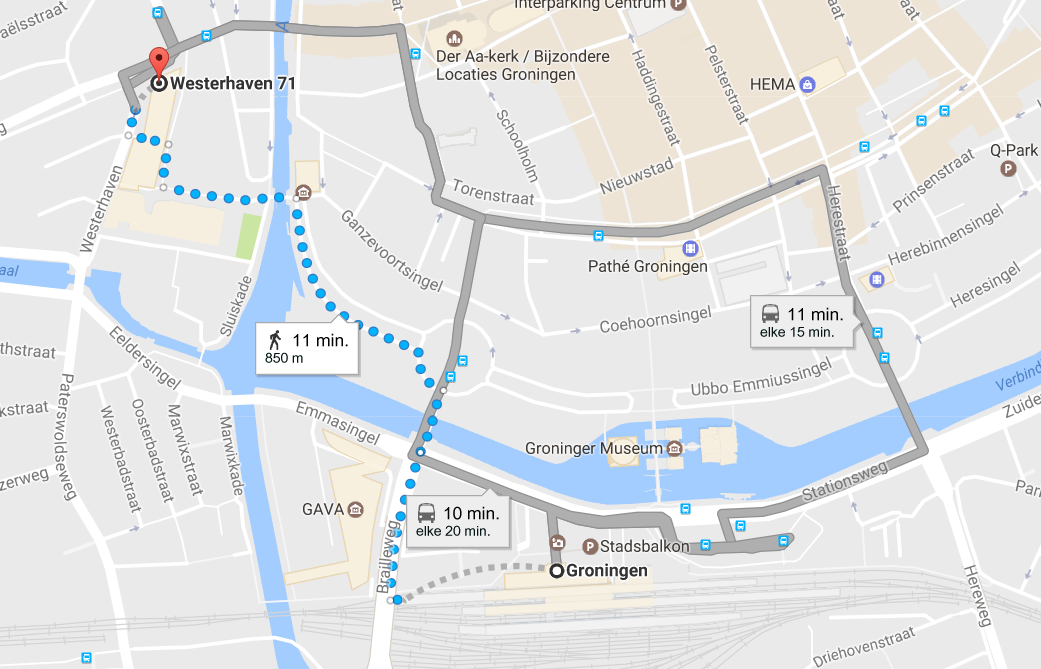
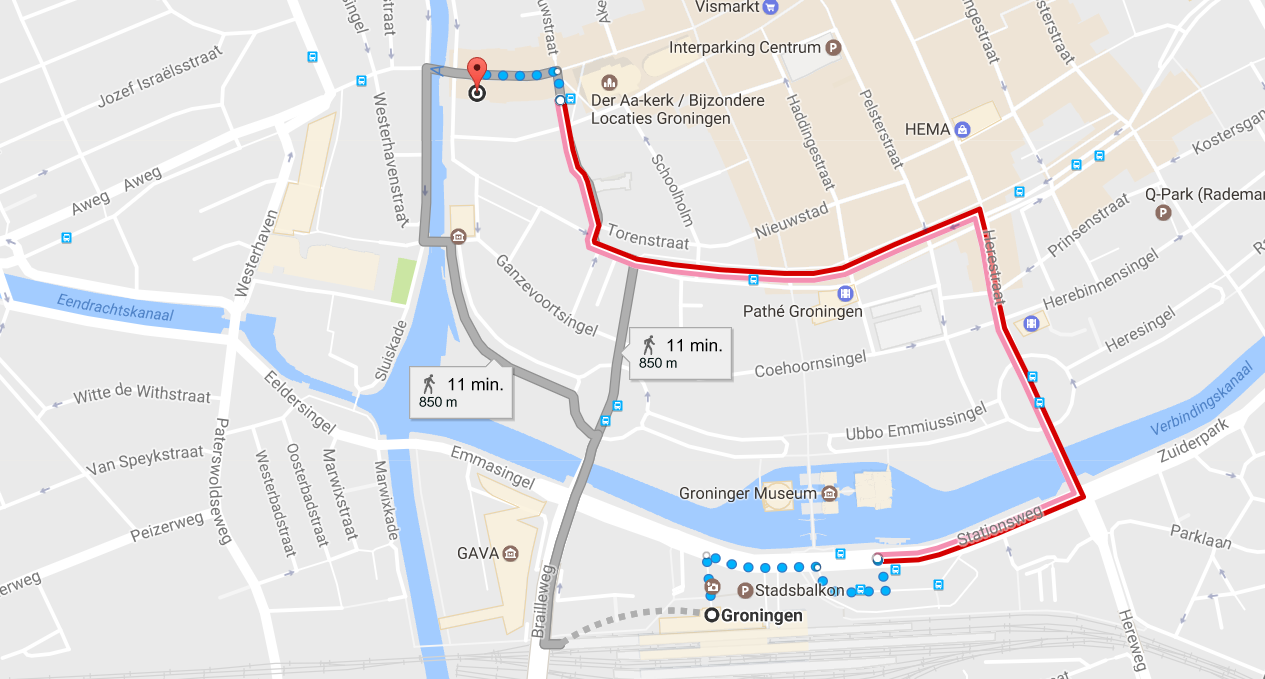
Routes

diff --git a/pages/routes.html b/pages/routes.html
@@ -19,18 +19,35 @@
 </ul>
 <!--TEXT ON PAGE-->
 
-<h1>My First Google Map</h1>
+<img class="route1" src="../pics/Inspect1.png" width="750" height="400">
+<img class="route2" src="../pics/Inspect2.png" width="750" height="400">
 
-<div id="googleMap" style="width:100%;height:400px;"></div>
+<p class="text1">
+    Het startpunt is het Centraal Station en vanaf daar loopt u naar het Groninger Museum.
+</p>
 
-<script>
-    function myMap() {
-        var mapProp= {
-            center:new google.maps.LatLng(51.508742,-0.120850),
-            zoom:5,
-        };
-        var map=new google.maps.Map(document.getElementById("googleMap"),mapProp);
-    }
-</script>
+<p class="text2">
+    Vanaf het Groninger Museum kunt u via bovenstaande wegen naar de Martinitoren komen.
+</p>
 
-<script src="https://maps.googleapis.com/maps/api/js?callback=myMap"></script>
+<img class="route1" src="../pics/Inspect3.png" width="750" height="400">
+<img class="route2" src="../pics/Inspect4.png" width="750" height="400">
+
+<p class="text1">
+    Vanaf het Centraal Station kunt u ook uw weg vervolgen naar het Noorderplantsoen.
+</p>
+
+<p class="text2">
+    Vanaf het Centraal Station kunt u ook naar het Stripmuseum lopen.
+</p>
+
+<img class="route1" src="../pics/Inspect5.png" width="750" height="400">
+<img class="route2" src="../pics/mainroute.jpg" width="750" height="400">
+
+<p class="text1">
+    De laatste bezienswaardigheid is het Scheepvaartmuseum. Zie bovenstaande route.
+</p>
+
+<p class="text2">
+    Als u alle bezienswaardigheden achter elkaar wilt zien volgt u bovenstaande route.
+</p>

diff --git a/css/routes.css b/css/routes.css
@@ -39,3 +39,30 @@ li {
 }
 
 /** SETS STYLE FOR REST OF PAGE **/
+
+body {
+    background-image: url("../pics/darkbg.jpg");
+}
+
+p.text1 {
+    color: white;
+    text-align: left;
+    float: left;
+}
+
+p.text2 {
+    color: white;
+    text-align: left;
+    float: right;
+}
+
+img.route1 {
+    float: left;
+    margin: 1% 0 0 0;
+}
+
+img.route2 {
+    float: right;
+    margin: 1% 0 0 0;
+}
+
